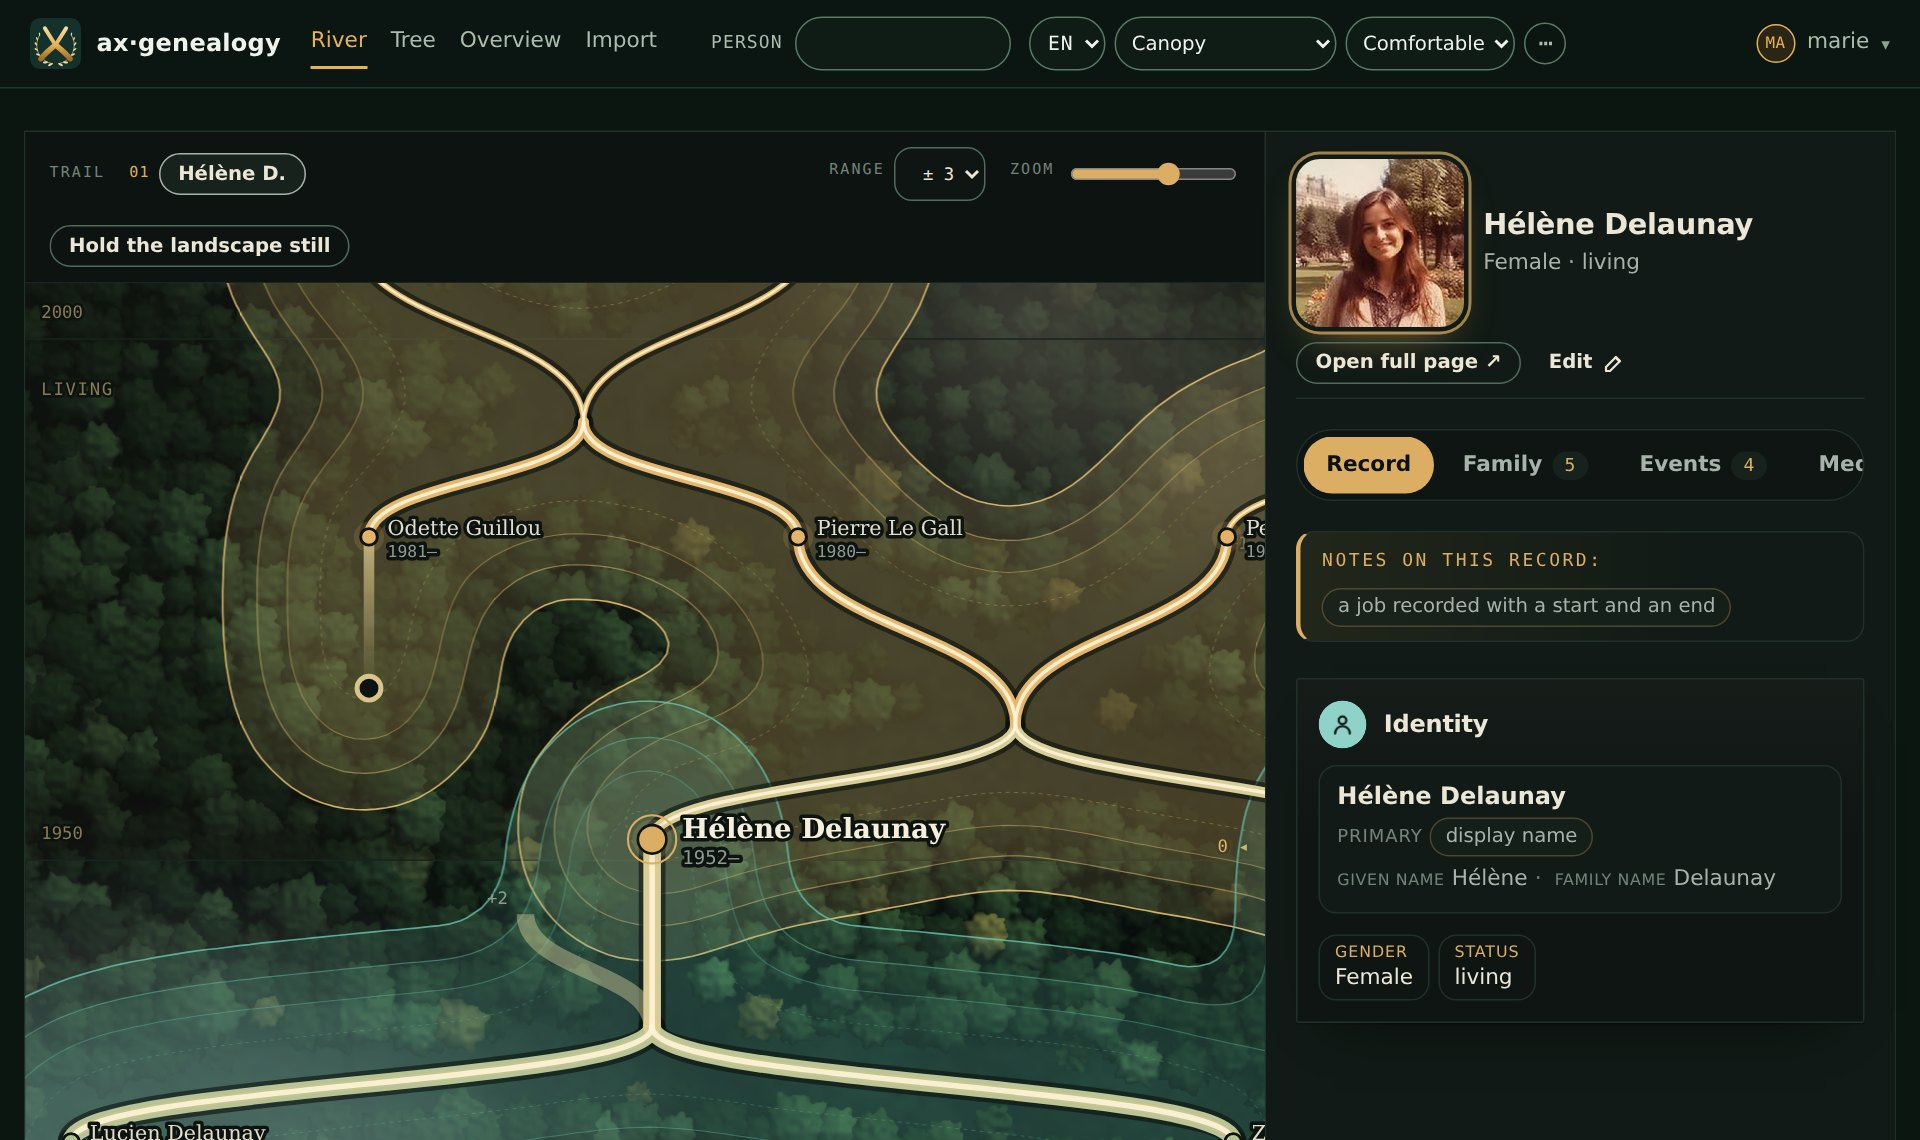
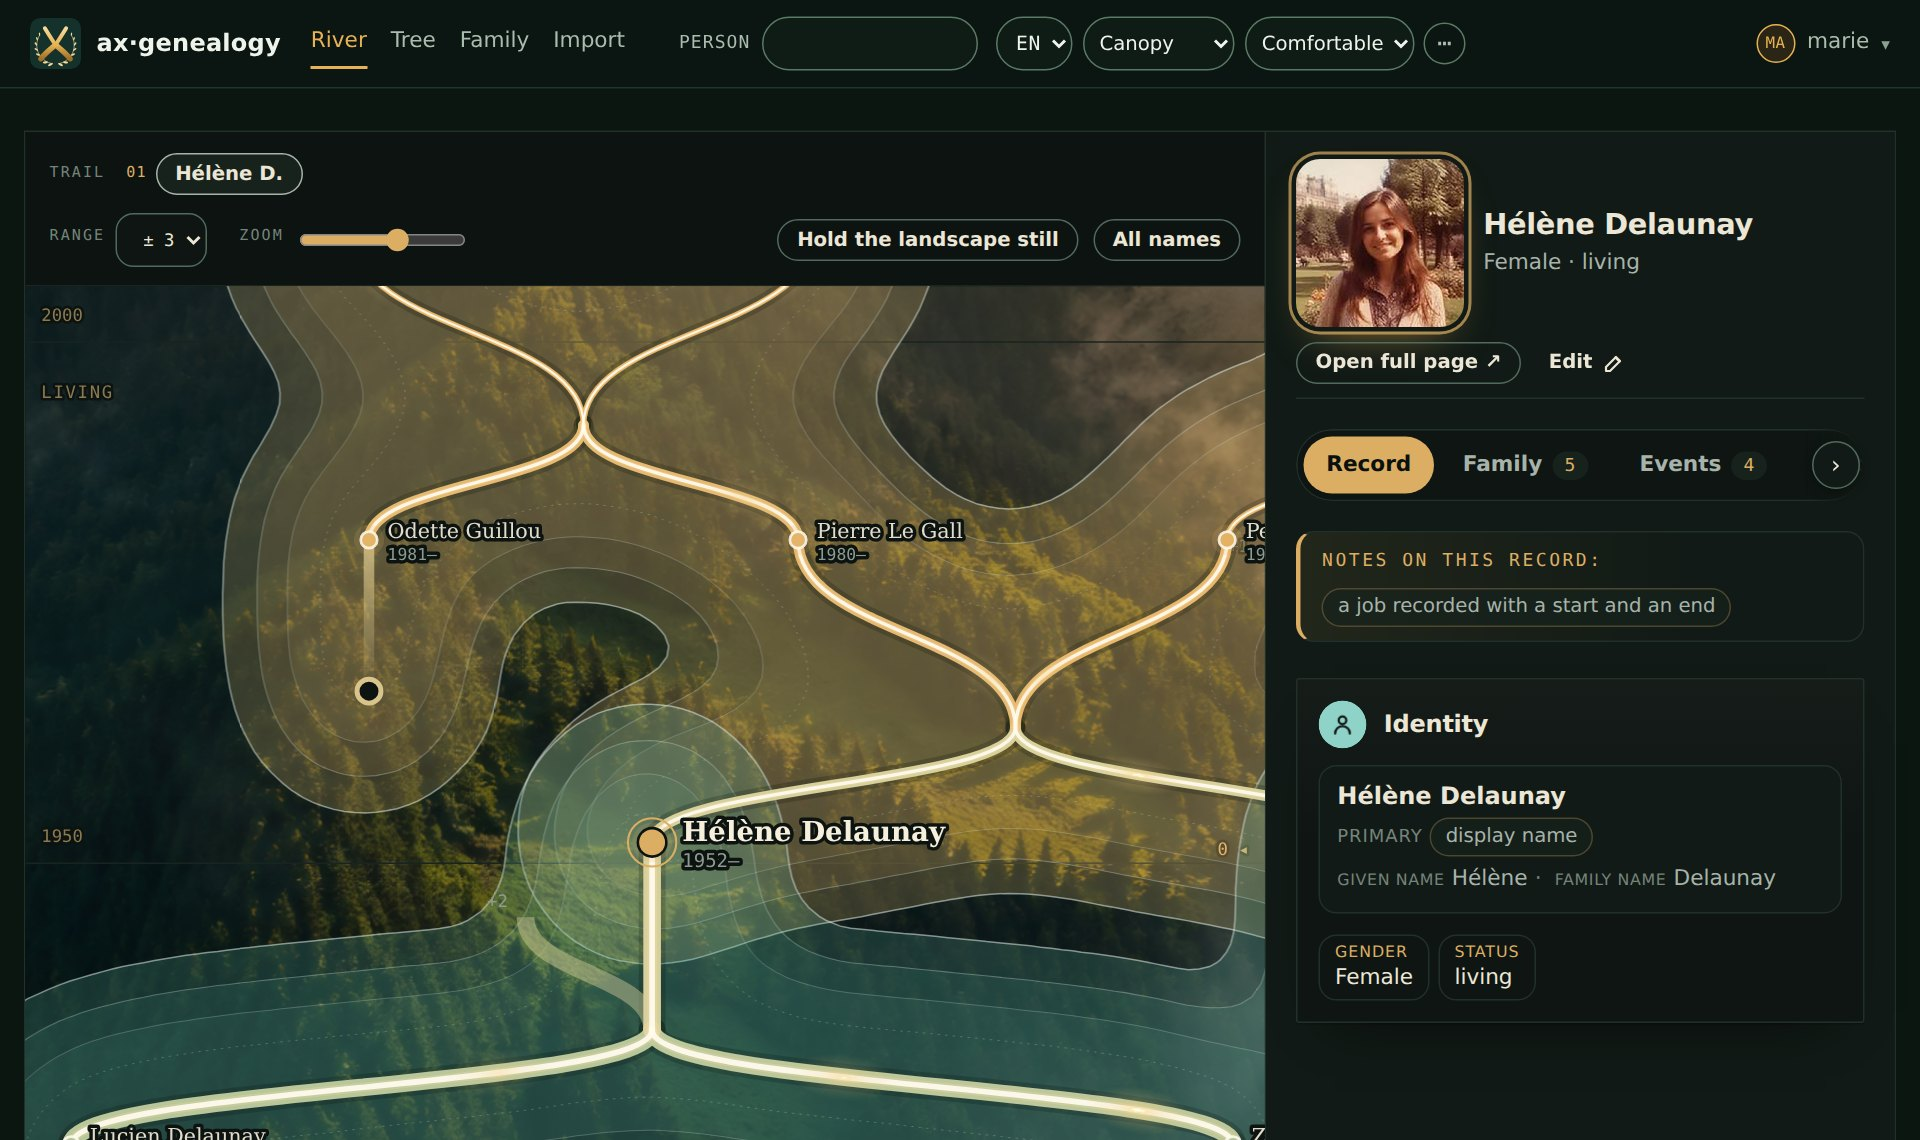
README: the river over Selva Verde's ground
The river's screenshots and animation retaken on the demonstration
instance (the fictional Delaunay–Zając family), and its descriptions
follow the photographed mountainside.

diff --git a/README.md b/README.md
@@ -19,7 +19,7 @@ How sure each fact is stays in plain sight.
 <a href="#more">Documentation</a>
 </p>
 
-[![The river, the landing page: Lucien Delaunay at the fixed point, his parents and grandparents flowing in from below in teal, his children and grandchildren branching above in ochre, over a forest seen from above. His record is open beside it with his portrait.](docs/screenshots/river-hero.jpg)](docs/screenshots/river-hero.jpg)
+[![The river, the landing page: Lucien Delaunay at the fixed point, his parents and grandparents flowing in from below in teal, his children and grandchildren branching above in ochre, as white threads of light through pale contoured zones over a forested mountainside seen from the air at golden hour, mist at its edges. His record is open beside it with his portrait.](docs/screenshots/river-hero.jpg)](docs/screenshots/river-hero.jpg)
 
 <sub>Every screenshot on this page shows the same fictional family: about 250
 people from Brittany and Poland, from the 1640s to today. It was generated
@@ -81,21 +81,20 @@ at the top numbers where you have been, and the record beside the river
 follows you.
 
 <p align="center">
-<img src="docs/screenshots/river-flow.webp" width="826" alt="The river moving: pulses of light run down the attested lines toward the living, and the forest underneath sways in the wind.">
+<img src="docs/screenshots/river-flow.webp" width="826" alt="The river moving: pulses of light run down the attested lines toward the living, over the forested mountainside and its drifting mist.">
 </p>
 
-**The river is alive** *(new in 0.5.0)*. Under the drawing, a forest
-seen from above is computed in WebGL at your screen's own resolution, so it is
-never soft and never pixelated. Low sun on the crowns, hills under the
-forest, clearings and wet ground along every line, and mist in the corners.
-Gusts cross the canopy, and pulses of light run down every attested line from
-the sources toward the living. It holds still for readers who ask their system
-for less motion, and with the river's own pause button. Nothing moves while
-the river is off screen.
+**The river is alive** *(new in 0.5.0)*. Under the drawing lies a
+forested mountainside seen from the air at golden hour. It is a 4K
+photograph drawn in relief by WebGL, so it stays sharp. The pointer leans it
+a little, mist drifts over its valleys, and pulses of light run down every
+attested line from the sources toward the living. It holds still for readers
+who ask their system for less motion, and with the river's own pause button.
+Nothing moves while the river is off screen.
 
 | Zoom in, and the names keep their size, as on a map | On a phone: the river, a record, its charts, the tree |
 |---|---|
-| [![The river zoomed in around Hélène Delaunay, born 1952: her line, her cousins' lines and the canopy in detail, her photograph in the record beside it](docs/screenshots/river-zoom.jpg)](docs/screenshots/river-zoom.jpg) | [![Four phone screens: the river with its range, zoom and pause button; Lucien Delaunay's record; Zofia Zając's physique chart and its table; the tree around Lucien](docs/screenshots/mobile.jpg)](docs/screenshots/mobile.jpg) |
+| [![The river zoomed in around Hélène Delaunay, born 1952: her line, her cousins' lines and the forest under them in detail, her photograph in the record beside it](docs/screenshots/river-zoom.jpg)](docs/screenshots/river-zoom.jpg) | [![Four phone screens: the river with its range, zoom and pause button; Lucien Delaunay's record; Zofia Zając's physique chart and its table; the tree around Lucien](docs/screenshots/mobile.jpg)](docs/screenshots/mobile.jpg) |
 
 The river reaches 2, 3 or 5 generations each way. To zoom from 1× to 3×,
 use Ctrl (⌘) and the wheel, a trackpad, two fingers, the slider, or the `+`,
